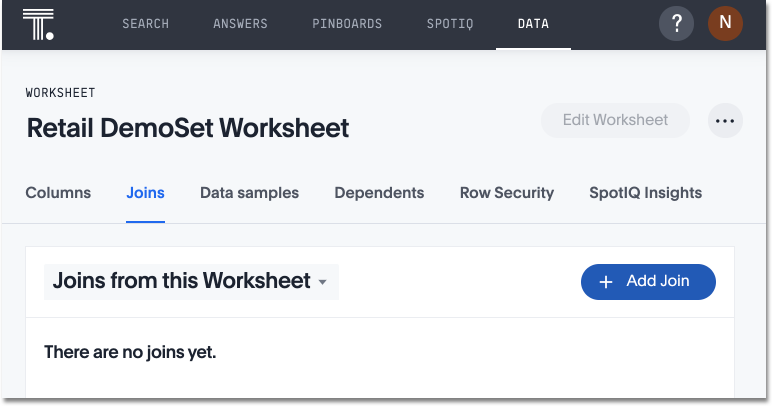
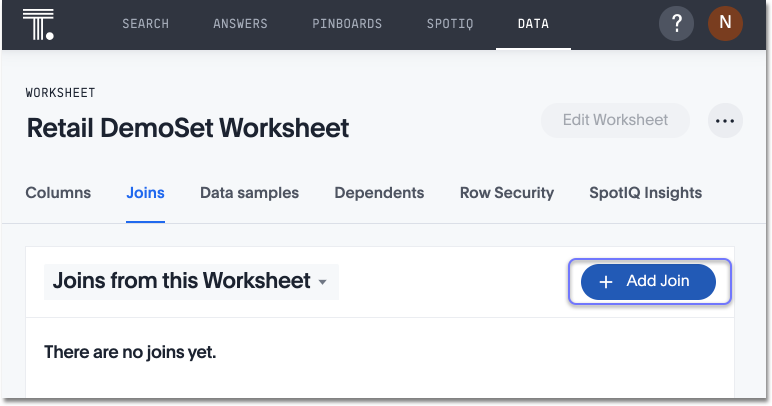
SCAL 70361: updated images in Join a worksheet to another data source

Changed region(s): [[0.715, 0.6207, 0.9637, 0.7685]]

diff --git a/_admin/worksheets/add-joins.md b/_admin/worksheets/add-joins.md
@@ -1,7 +1,7 @@
 ---
 title: [Join a worksheet to another data source]
 
-last_updated: 7/10/2020
+last_updated: 11/19/2020
 summary: "Learn how to define joins between a worksheet and a table or view."
 toc: false
 sidebar: mydoc_sidebar
@@ -32,23 +32,19 @@ To create a relationship through the Web interface:
 
    The list of existing joins within the worksheet appears.
 
-4. To view the joins between the worksheet and other data sources, click **Joins within worksheets**, and choose **Joins between worksheets**.
-
-   ![]({{ site.baseurl }}/images/worksheet-join-chooser-between.png "Add join between worksheet")
+4. To view the joins between the worksheet and other data sources, click **Joins within this worksheet**, and choose **Joins from this worksheet**.
 
 5. Click **+ Add Join** on the upper right side of the screen.
 
-   ![]({{ site.baseurl }}/images/ws-add-join.png "Add join")
+   ![]({{ site.baseurl }}/images/add-join-to-worksheet-1.png "Add join")
 
 6. Use the **Map source to destination** dialog to choose the destination table or view for the other end of the join.
 
-   ![]({{ site.baseurl }}/images/ws-join-select-destination.png "Select destination table")
+   ![]({{ site.baseurl }}/images/add-join-dialog-box.png "Select destination table")
 
 7. Choose the matching columns for the join from the worksheet (source) and destination data source.
 
    Click **Next**.
-
-   ![]({{ site.baseurl }}/images/ws-join-select-col.png "Select columns to join on")
 
 8. Give your join a name and description, and click **ADD JOIN**.
 
